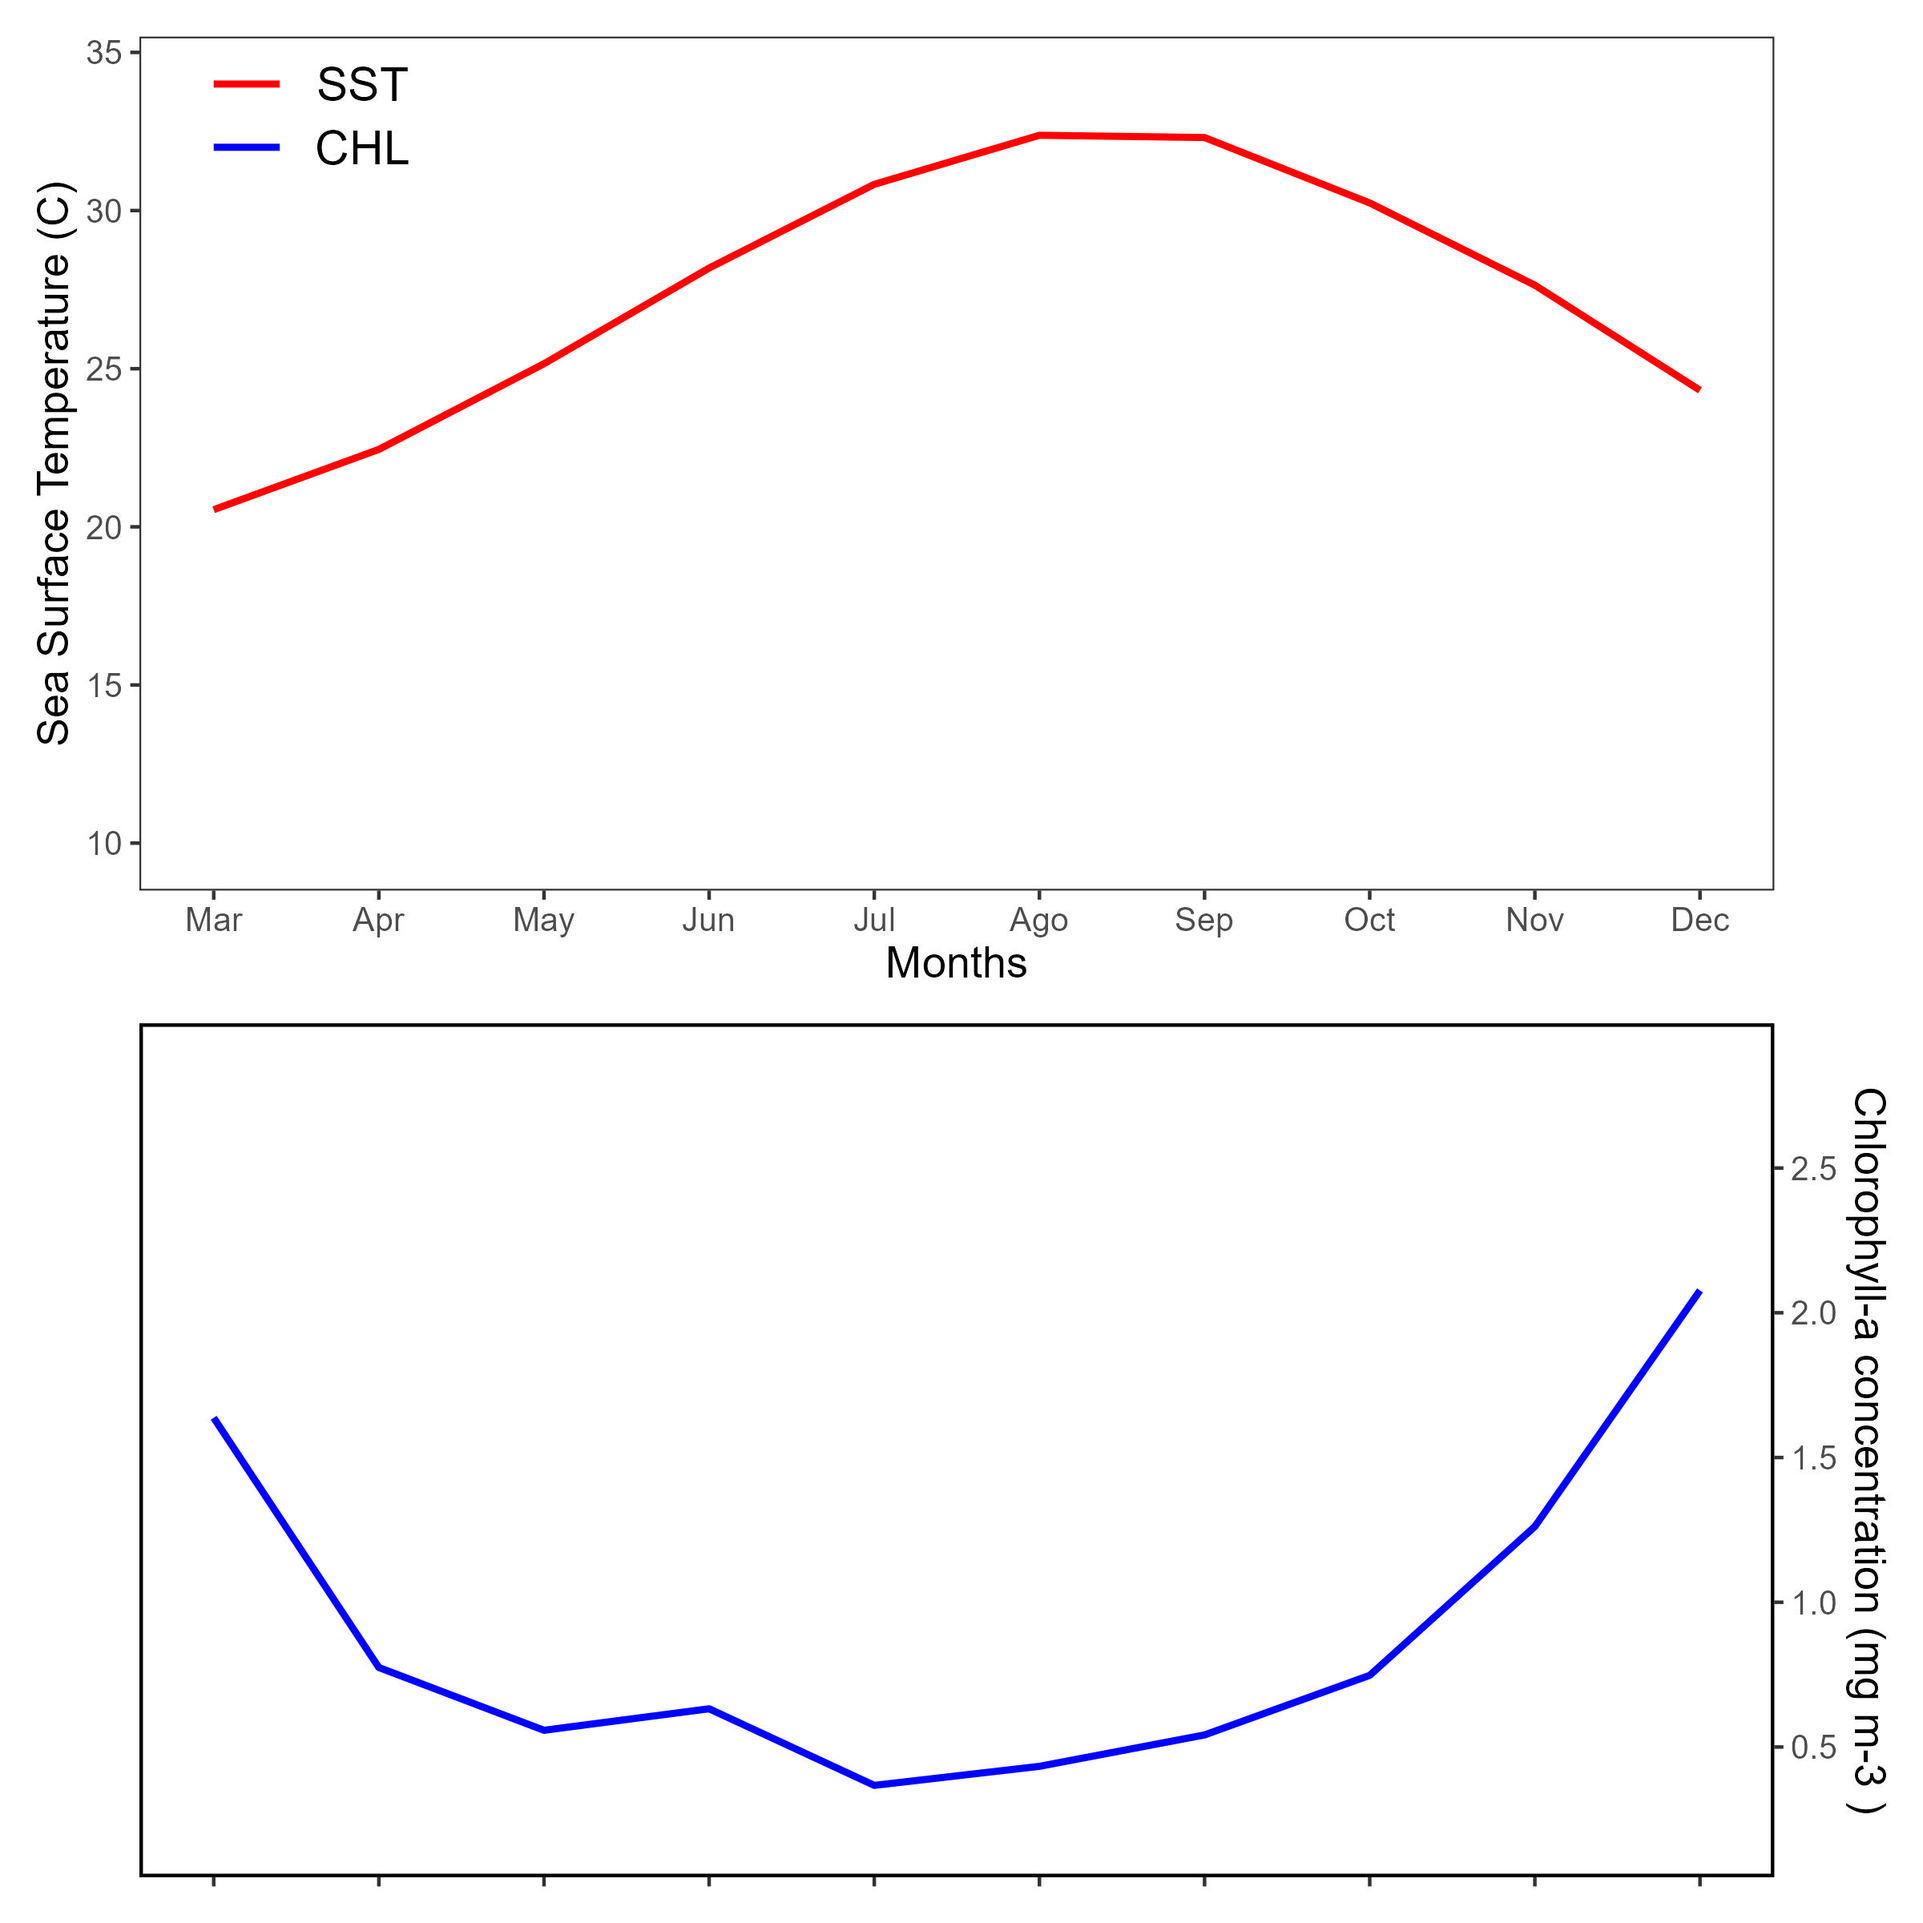
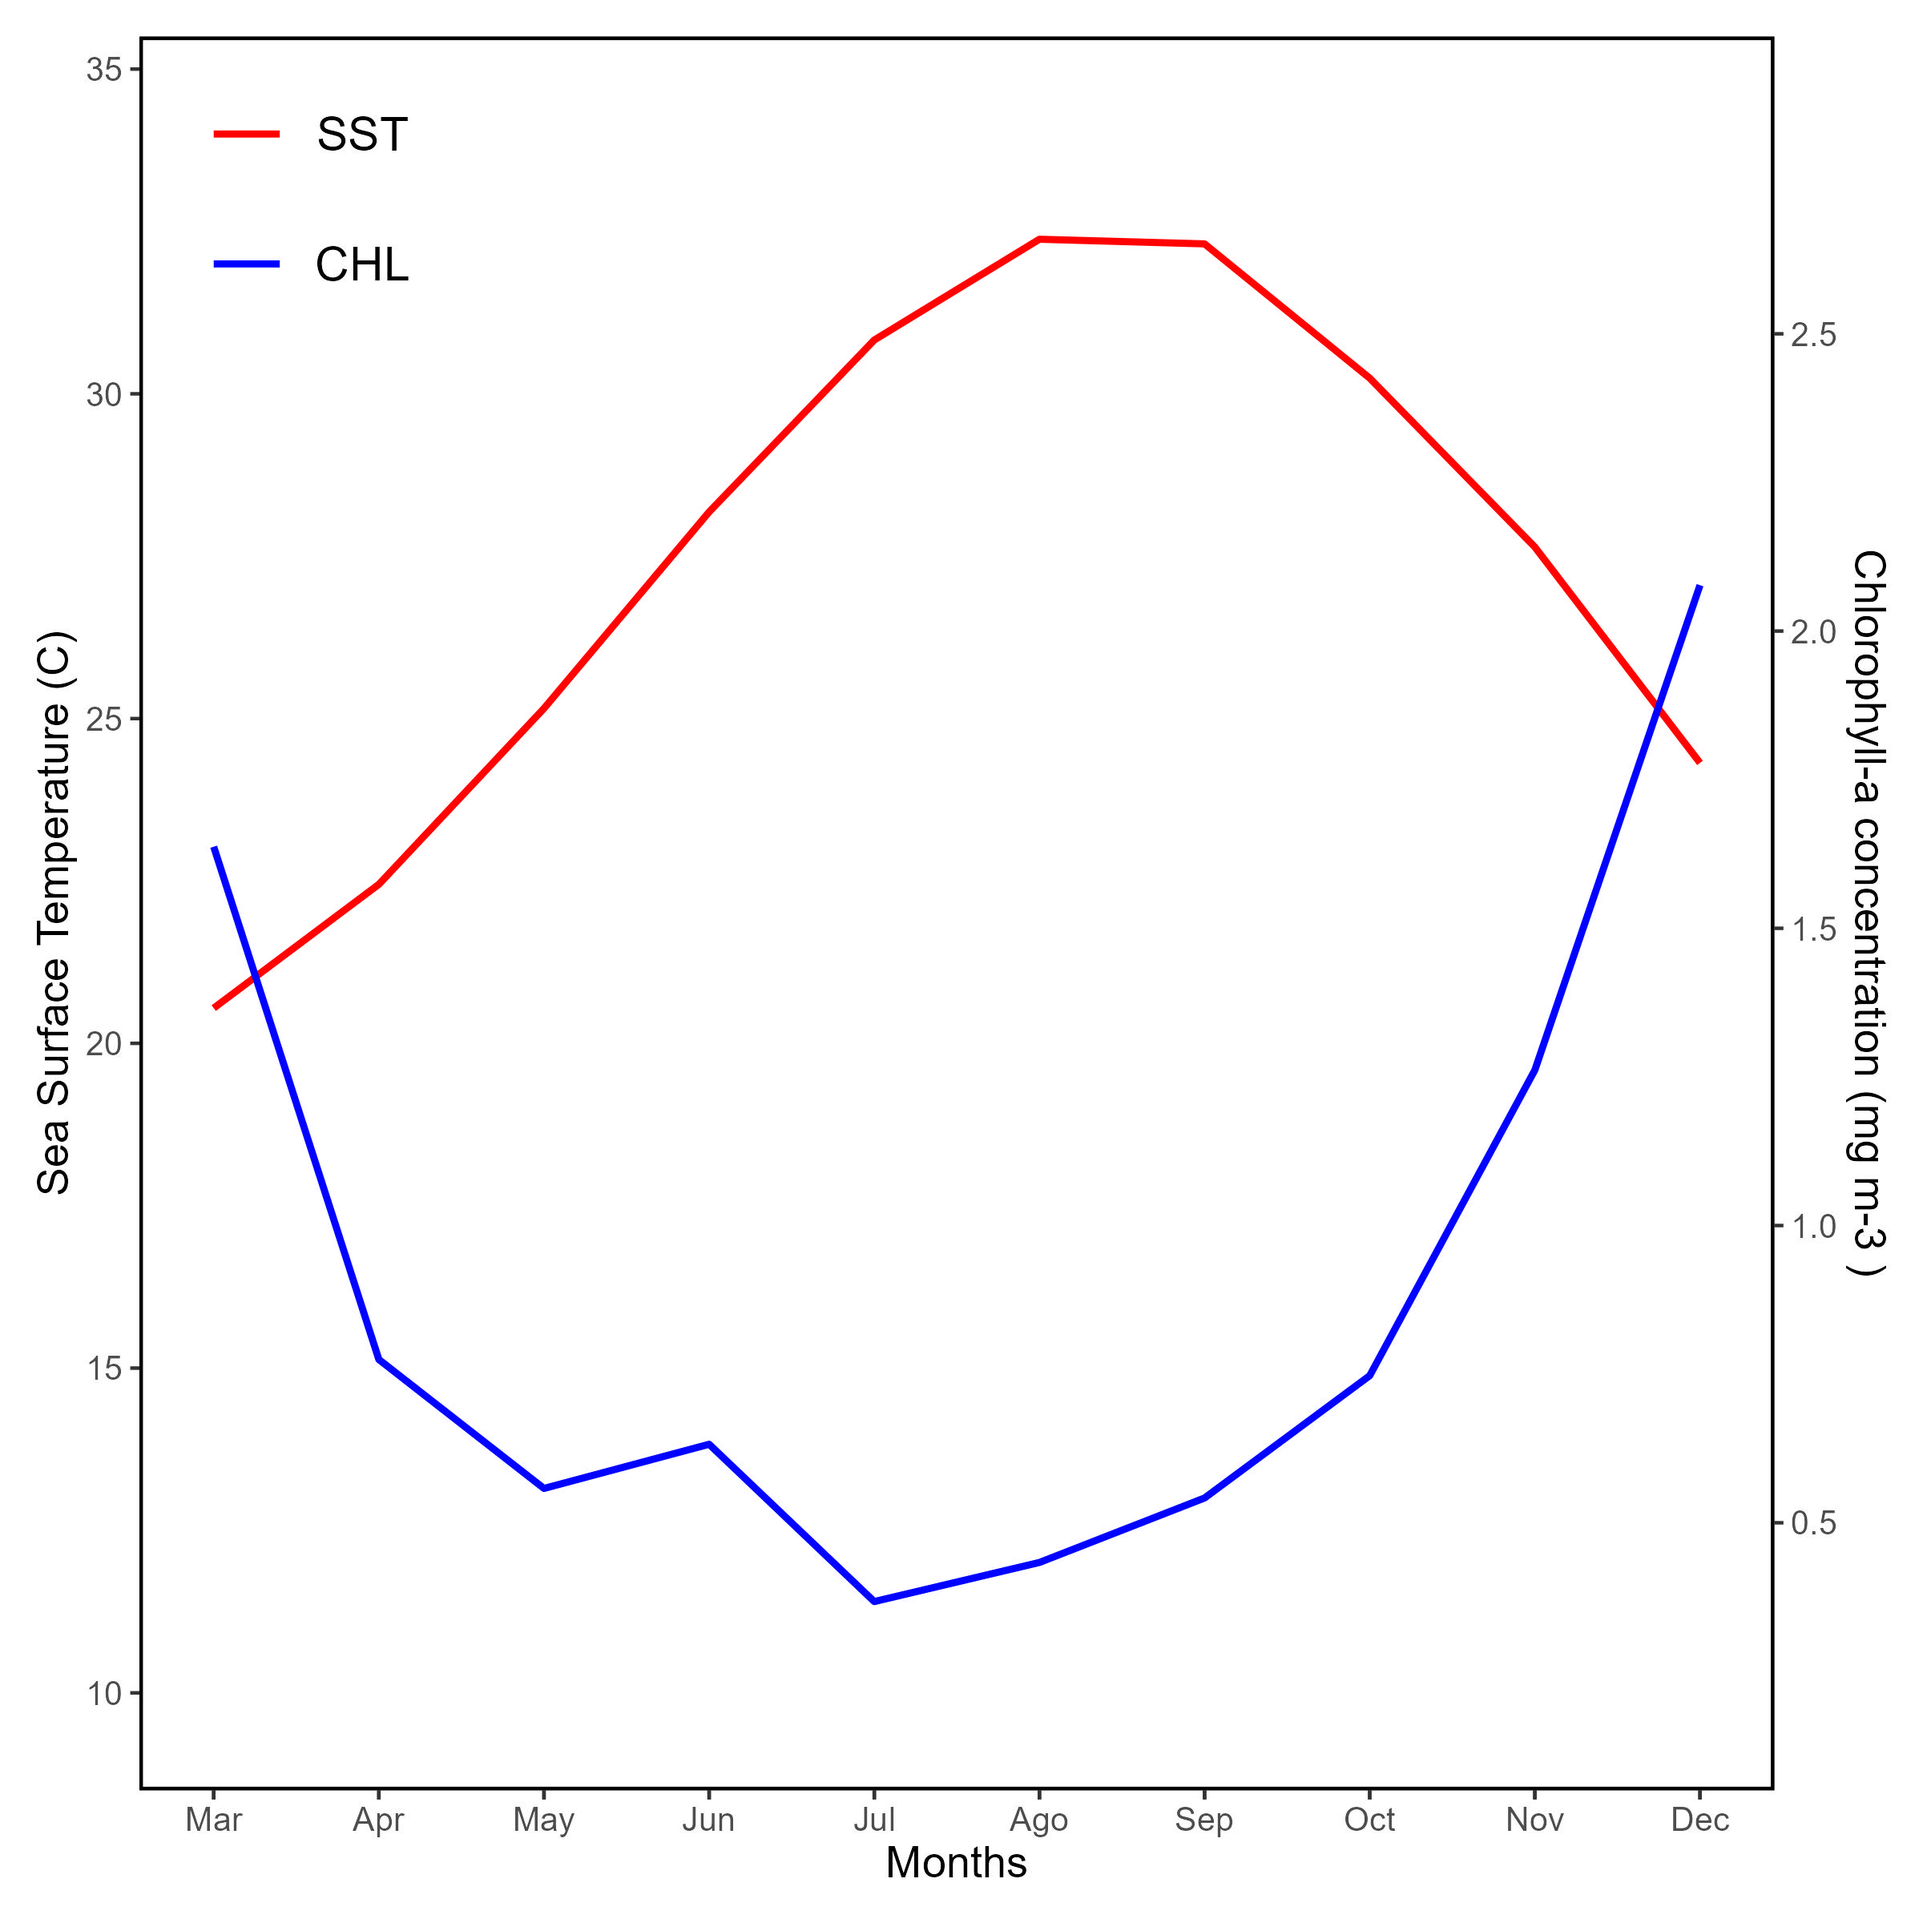
update script and create gallery

diff --git a/README.md b/README.md
@@ -9,89 +9,99 @@ Materials for teaching section on webpage.
 
 Data supporting blogs.
 
-# Gallery
+## Gallery
 
-## Calendar
+### Calendar
 
-Geom point but make squares
+Geom point but make squares. Source code
+[here](https://www.miriam-lerma.com/blog/2024-01-15-calendar/calendar).
 
 <img src="https://github.com/MiriamLL/data_supporting_webpage/blob/main/Blog/2024/calendar_export.jpg?raw=true" width="50%" style="display: block; margin: auto auto auto 0;" />
 
-## Violin plot
+### Violin plot
 
-With secondary X axis
-
+Using geom_violin with secondary X axis. Source code
+[here](https://www.miriam-lerma.com/blog/2023-11-02-secondaryxtitle/secondaryxtitle).  
 <img src="https://github.com/MiriamLL/data_supporting_webpage/blob/main/Blog/2023/secondary_export.jpg?raw=true" width="50%" style="display: block; margin: auto auto auto 0;" />
 
-## Line plot
+### Line plot
 
-With secondary Y axis
+Using geom_line with secondary Y axis. Source code
+[here](https://www.miriam-lerma.com/blog/2024-03-11-year-sst/year-sst).
+<img src="https://github.com/MiriamLL/data_supporting_webpage/blob/main/Blog/2024/sst_chl_yaxis_export.jpg?raw=true" width="50%" style="display: block; margin: auto auto auto 0;" />
 
-<img src="https://github.com/MiriamLL/data_supporting_webpage/blob/main/Blog/2023/sst_chl_yaxis.jpg?raw=true" width="50%" style="display: block; margin: auto auto auto 0;" />
+### Map
 
-## Map
+#### Base Map
 
-### Base Map
-
-<img src="https://github.com/MiriamLL/data_supporting_webpage/blob/main/Blog/2023/map_export.jpg?raw=true" width="50%" />
-
-<img src="https://github.com/MiriamLL/data_supporting_webpage/blob/main/Blog/2023/map_export.jpg?raw=true" width="50%" />
-
-## Points
-
-geom_point
-
-with labels
-<https://www.miriam-lerma.com/blog/2024-10-08-distancepoints/distancepoints>
-<img src="https://github.com/MiriamLL/data_supporting_webpage/blob/main/Blog/2024/distancepoints_export.jpg?raw=true" width="50%" style="display: block; margin: auto auto auto 0;" />
-
-with different colors
-<https://www.miriam-lerma.com/blog/2024-11-05-completeorincomplete/completeorincomplete>
-<img src="https://github.com/MiriamLL/data_supporting_webpage/blob/main/Blog/2024/complete_export.jpg?raw=true" width="50%" style="display: block; margin: auto auto auto 0;" />
-<https://www.miriam-lerma.com/blog/2024-09-19-identifyevents/identifyevents>
-<img src="https://github.com/MiriamLL/data_supporting_webpage/blob/main/Blog/2024/identifytrip_export.jpg?raw=true" width="50%" style="display: block; margin: auto auto auto 0;" />
-
-with patchwork
-<https://www.miriam-lerma.com/blog/2024-08-01-removelocs/removelocs>
-<img src="https://github.com/MiriamLL/data_supporting_webpage/blob/main/Blog/2024/remove_export.jpg?raw=true" width="50%" style="display: block; margin: auto auto auto 0;" />
-<https://www.miriam-lerma.com/blog/2024-07-05-interpolate/interpolate>
-<img src="https://github.com/MiriamLL/data_supporting_webpage/blob/main/Blog/2024/interpolate_export.jpg?raw=true" width="50%" style="display: block; margin: auto auto auto 0;" />
-
-### Densities
-
-<img src="https://github.com/MiriamLL/data_supporting_webpage/blob/main/Blog/2023/custompoints_export.jpg?raw=true" width="50%" style="display: block; margin: auto auto auto 0;" />
-
-## Curve
-
-geom_curve
-<https://www.miriam-lerma.com/blog/2024-06-04-pointsdistance/pointsdistance>
-<img src="https://github.com/MiriamLL/data_supporting_webpage/blob/main/Blog/2024/distance_export.jpg?raw=true" width="50%" style="display: block; margin: auto auto auto 0;" />
-
-### Create grids
-
-<img src="https://github.com/MiriamLL/data_supporting_webpage/blob/main/Blog/2023/multiple_export.jpg?raw=true" width="50%" style="display: block; margin: auto auto auto 0;" />
-
-## Raster
-
-With buffer <https://www.miriam-lerma.com/blog/2024-04-04-buffer/buffer>
-<img src="https://github.com/MiriamLL/data_supporting_webpage/blob/main/Blog/2023/insidelegend_export.jpg?raw=true" width="50%" style="display: block; margin: auto auto auto 0;" />
-
-## Raster
-
-SST from NOAA
-<https://www.miriam-lerma.com/blog/2024-02-06-environmentalvariables/environmentalvariables>
-<img src="https://github.com/MiriamLL/data_supporting_webpage/blob/main/Blog/2024/environmantal_export.jpg?raw=true" width="50%" style="display: block; margin: auto auto auto 0;" />
+Using geom_sf. Source code
+[here](https://www.miriam-lerma.com/blog/2023-03-04-mapping-in-r/mapping-in-r).
+<img src="https://github.com/MiriamLL/data_supporting_webpage/blob/main/Blog/2023/map_export.jpg?raw=true" width="40%" style="display: block; margin: auto auto auto 0;" />
 
 ### Points
 
-With custom legend inside the plot
+Using geom_point with labels. Source code
+[here](https://www.miriam-lerma.com/blog/2024-10-08-distancepoints/distancepoints).
+<img src="https://github.com/MiriamLL/data_supporting_webpage/blob/main/Blog/2024/distancepoints_export.jpg?raw=true" width="40%" style="display: block; margin: auto auto auto 0;" />
 
+Using geom_point with different colors. Source code
+[here](https://www.miriam-lerma.com/blog/2024-11-05-completeorincomplete/completeorincomplete).
+<img src="https://github.com/MiriamLL/data_supporting_webpage/blob/main/Blog/2024/complete_export.jpg?raw=true" width="60%" style="display: block; margin: auto auto auto 0;" />
+
+Using geom_point with different colors. Source code
+[here](https://www.miriam-lerma.com/blog/2024-09-19-identifyevents/identifyevents).
+<img src="https://github.com/MiriamLL/data_supporting_webpage/blob/main/Blog/2024/identifytrip_export.jpg?raw=true" width="50%" style="display: block; margin: auto auto auto 0;" />
+
+Using geom_poing and patchwork.Source code
+[here](https://www.miriam-lerma.com/blog/2024-08-01-removelocs/removelocs).
+<img src="https://github.com/MiriamLL/data_supporting_webpage/blob/main/Blog/2024/remove_export.jpg?raw=true" width="100%" style="display: block; margin: auto auto auto 0;" />
+
+Using geom_point and patchwork. Source code
+[here](https://www.miriam-lerma.com/blog/2024-07-05-interpolate/interpolate).
+<img src="https://github.com/MiriamLL/data_supporting_webpage/blob/main/Blog/2024/interpolate_export.jpg?raw=true" width="80%" style="display: block; margin: auto auto auto 0;" />
+
+#### Densities
+
+Using geom_sf and geom_points. Source code
+[here](https://www.miriam-lerma.com/blog/2023-08-02-customlegend/customlegend).
+<img src="https://github.com/MiriamLL/data_supporting_webpage/blob/main/Blog/2023/custompoints_export.jpg?raw=true" width="80%" style="display: block; margin: auto auto auto 0;" />
+
+#### Curve
+
+Using geom_curve. Source code
+[here](https://www.miriam-lerma.com/blog/2024-06-04-pointsdistance/pointsdistance).
+<img src="https://github.com/MiriamLL/data_supporting_webpage/blob/main/Blog/2024/distance_export.jpg?raw=true" width="50%" style="display: block; margin: auto auto auto 0;" />
+
+#### Create grids
+
+Using geom_curve. Source code
+[here](https://www.miriam-lerma.com/blog/2023-09-01-patchwork-legend/custom-legend).
+<img src="https://github.com/MiriamLL/data_supporting_webpage/blob/main/Blog/2023/multiple_export.jpg?raw=true" width="50%" style="display: block; margin: auto auto auto 0;" />
+
+#### Raster
+
+With buffer. Source code
+[here](https://www.miriam-lerma.com/blog/2024-04-04-buffer/buffer)
+<img src="https://github.com/MiriamLL/data_supporting_webpage/blob/main/Blog/2023/buffer_export.jpg?raw=true" width="50%" style="display: block; margin: auto auto auto 0;" />
+
+## Raster
+
+SST from NOAA. Source code
+[here](https://www.miriam-lerma.com/blog/2024-02-06-environmentalvariables/environmentalvariables)
+<img src="https://github.com/MiriamLL/data_supporting_webpage/blob/main/Blog/2024/environmental_export.jpg?raw=true" width="50%" style="display: block; margin: auto auto auto 0;" />
+
+### Points
+
+With custom legend inside the plot. Source code
+[here](https://www.miriam-lerma.com/blog/2023-10-02-inside-legend/inside-legend)
 <img src="https://github.com/MiriamLL/data_supporting_webpage/blob/main/Blog/2023/insidelegend_export.jpg?raw=true" width="50%" style="display: block; margin: auto auto auto 0;" />
 
 ### Animate
 
+Using geom_sf, geom_poing and geom_path. Source code
+[here](https://www.miriam-lerma.com/blog/2023-06-01-gganimate/gganimate).
 <img src="https://github.com/MiriamLL/data_supporting_webpage/blob/main/Blog/2023/animation.gif?raw=true" style="display: block; margin: auto auto auto 0;" />
 
 ### Interactive
 
-<https://www.miriam-lerma.com/blog/2024-12-02-tmap/tmap>
+Open [here](https://www.miriam-lerma.com/blog/2024-12-02-tmap/tmap).
